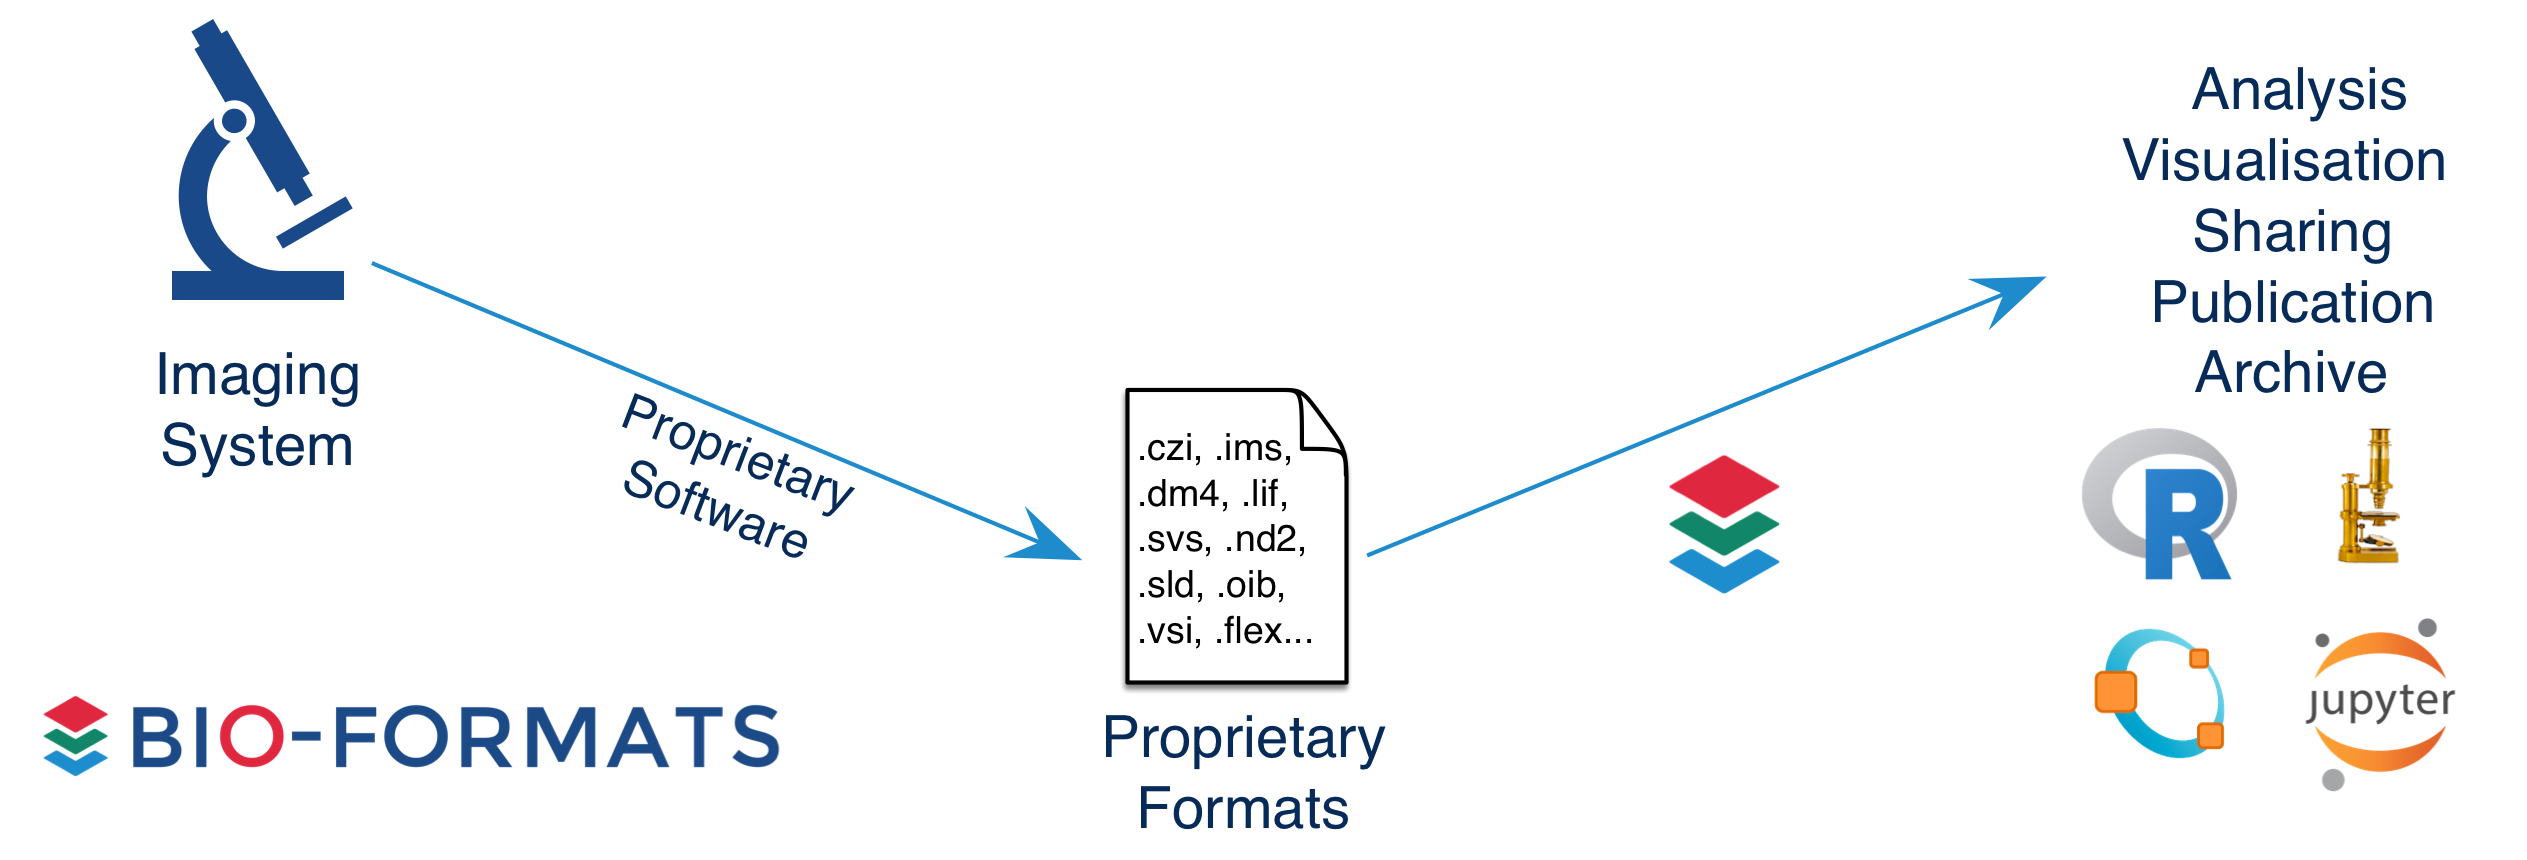
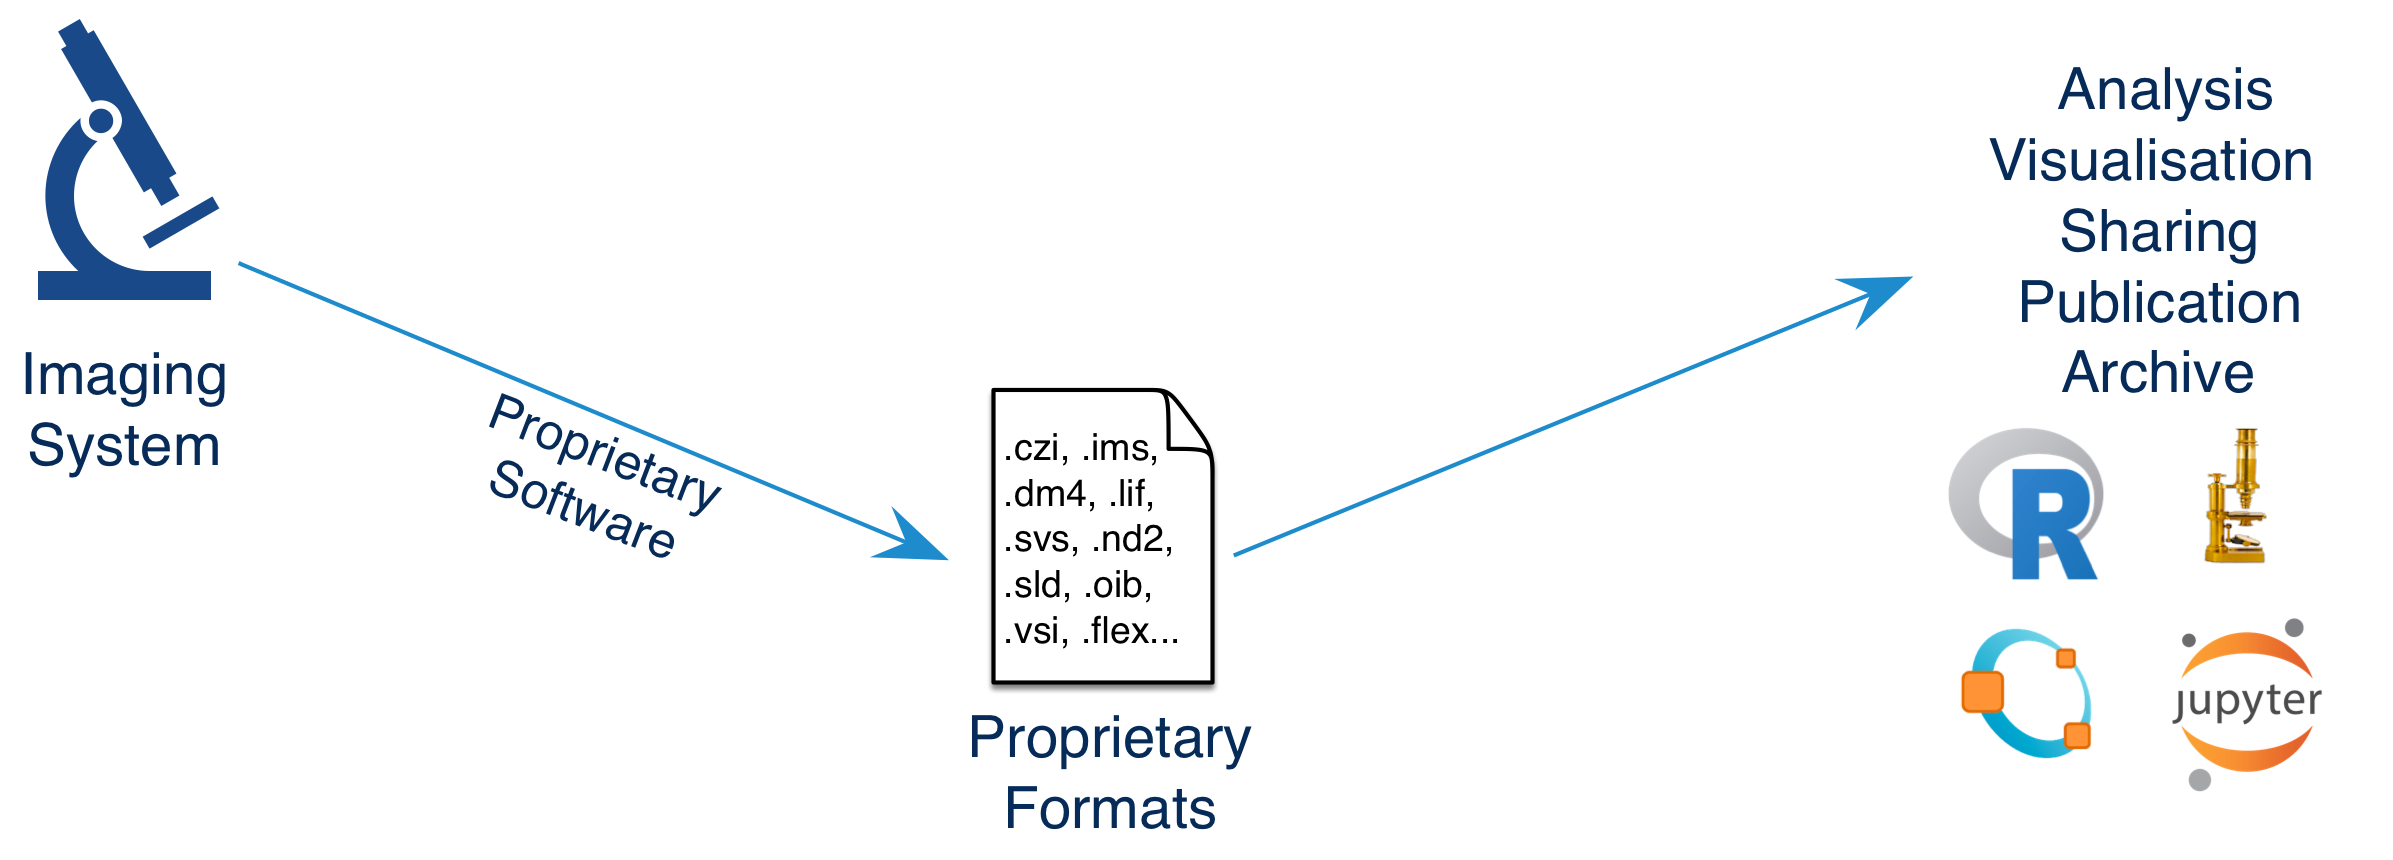
Split first PNG into two

diff --git a/2017/Users-Meeting/Workshops/Formats-Introduction/index.html b/2017/Users-Meeting/Workshops/Formats-Introduction/index.html
@@ -108,6 +108,10 @@
                     <h2>What we do</h2>
                     <img width="120%" src="../images/formats_3.png"/>
                 </section>
+                <section>
+                    <h2>What we do</h2>
+                    <img width="120%" src="../images/formats_4.png"/>
+                </section>
 
                 <section>
                   <h2>OME team</h2>
@@ -128,16 +132,16 @@
                 <section>
                   <h2>Community</h2>
                     <ul>
-                     <li><a href="https://github.com/openmicroscopy/bioformats/graphs/contributors?from=2016-06-01&to=2017-06-01&type=c">2016/2017</a>:
-                     half of contributors external</li>
-                     <li>Major contributions</li>
+                     <li><a href="https://github.com/openmicroscopy/bioformats/graphs/contributors?from=2016-06-01&to=2017-06-01&type=c">
+                         2016/2017 contributors</a></li>
+                     <li>Major external contributions</li>
                      <ul>
                         <li>Zeiss CZI: JPEG-XR support (Glencoe Software)</li>
-                        <li>Olympus OIR: new format (Glencoe Software)</li>
+                        <li>Olympus OIR: new format reader (Glencoe Software)</li>
                         <li>Nikon ND2: performance (Christian Sachs)</li>
                         <li>Hamamatsu NDPIS: pixels (Manuel Stritt)</li>
                       </ul>
-                      <li>Driver for API development, integration process review</li> 
+                      <li>Interactions driving API development & integration process</li> 
                     </ul>
                 </section>
 
